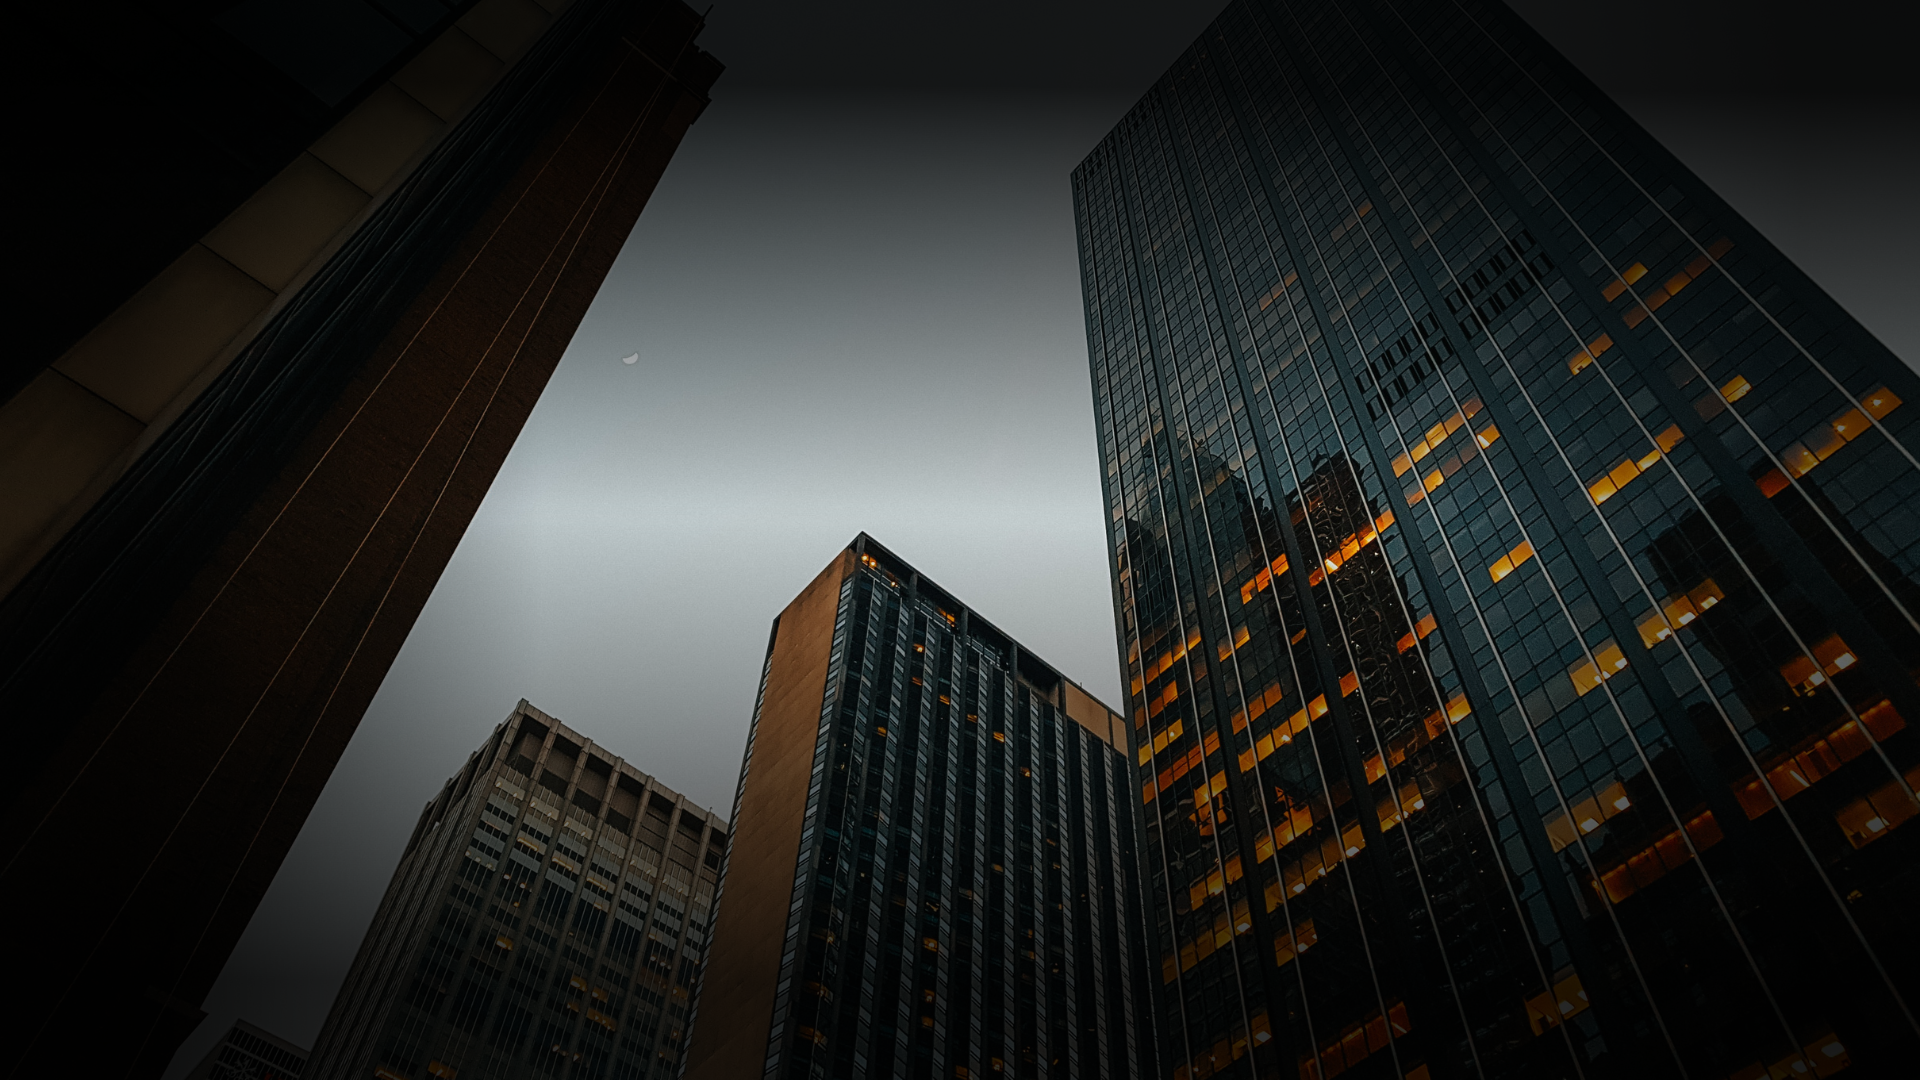
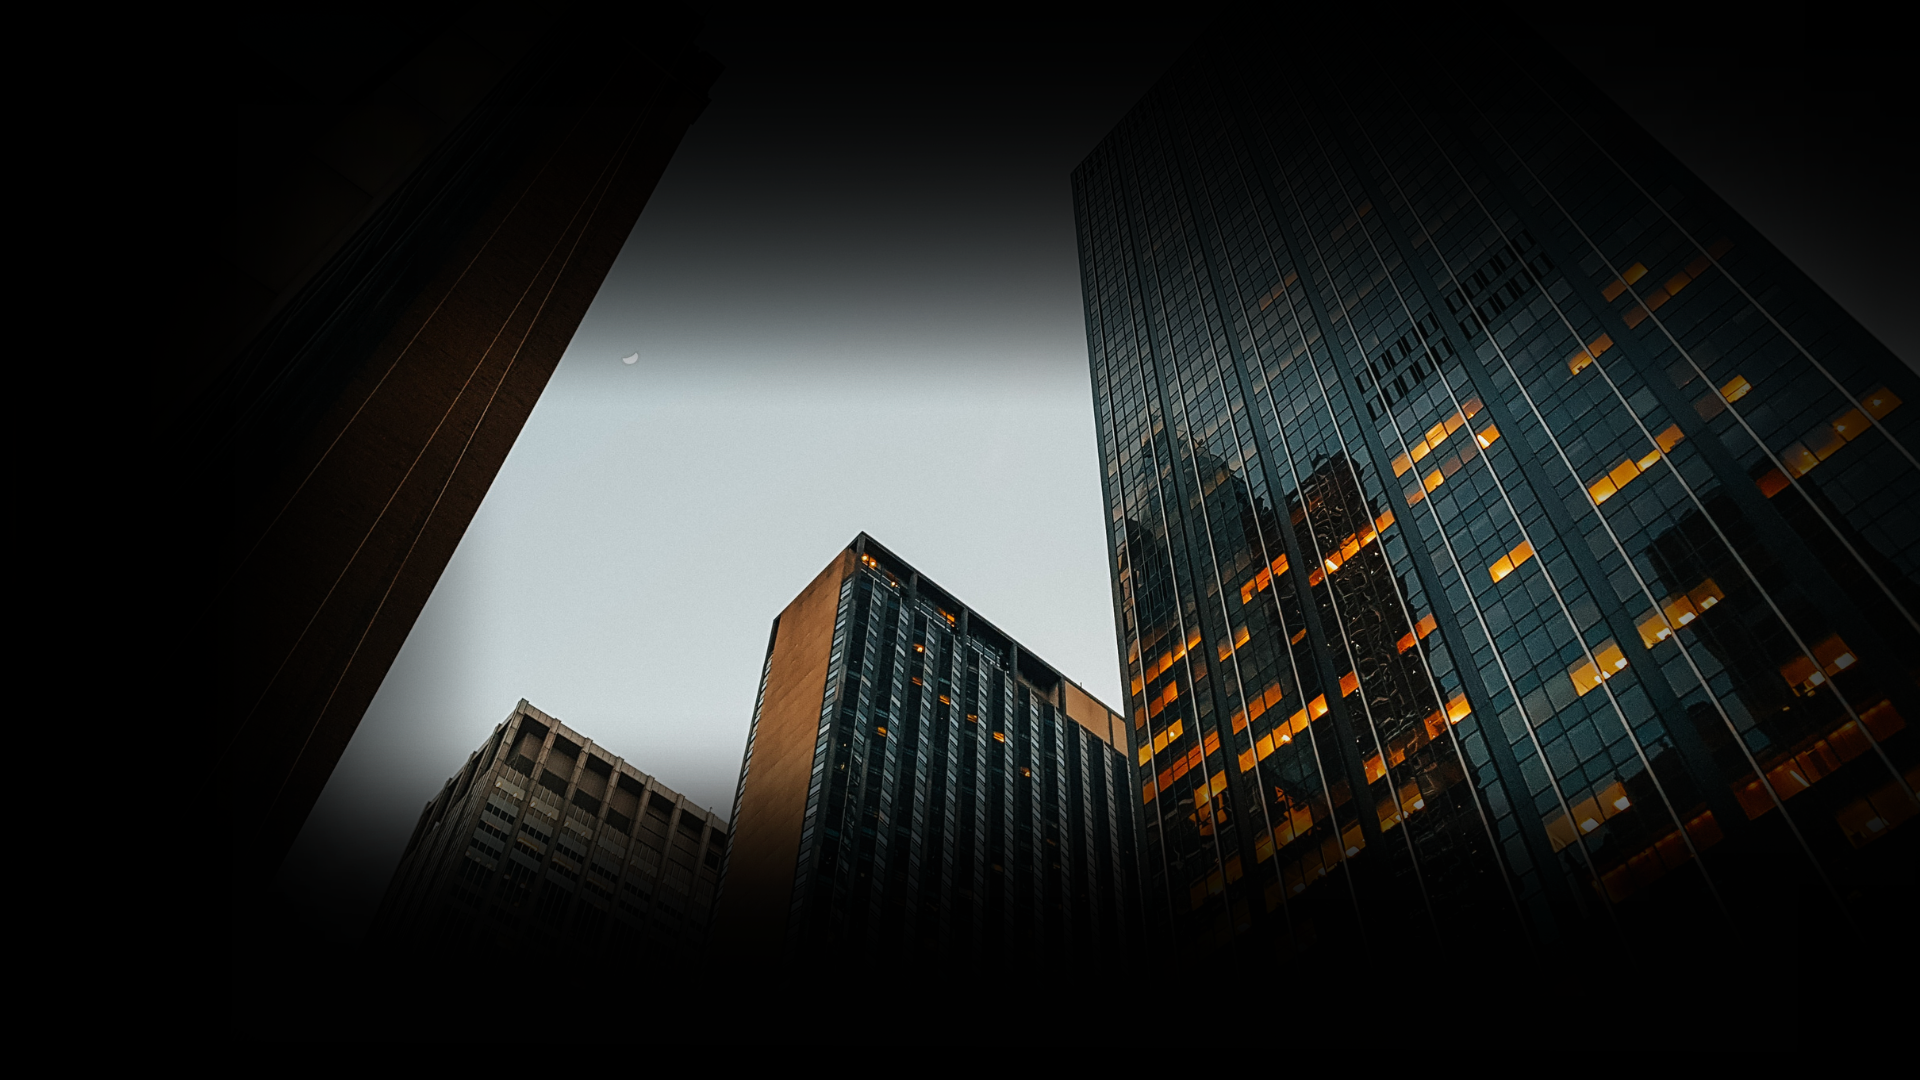
navbar

diff --git a/html/home.html b/html/home.html
@@ -8,31 +8,25 @@
     <link rel="stylesheet" href="https://cdn.jsdelivr.net/npm/bootstrap@4.3.1/dist/css/bootstrap.min.css" integrity="sha384-ggOyR0iXCbMQv3Xipma34MD+dH/1fQ784/j6cY/iJTQUOhcWr7x9JvoRxT2MZw1T" crossorigin="anonymous">
     <link rel="stylesheet" href="./css/home.css">
     <link rel="icon" href="https://cdn-icons-png.flaticon.com/512/187/187280.png">
-    <div class="nav-bar">
-      <img class = "logo" src="logo.png" alt = "Stem Logo"> 
-      <img class = "logo-name" src="logo_name.png" alt = "Stem Logo Name"> 
-      <div class="col-auto"><a class = "nav-header" href="home.html">Home</a></div>
-      <div class="col-auto"><a class = "nav-header" href = "rafdsfs.html">Stem Articles</a></div>
-      <div class="col-auto"><a class = "nav-header" href = "rafdsfs.html">Stem Leaders</a></div>
-      <div class="col-auto"><a class = "nav-header" href = "rafdsfs.html">Resources</a></div>
-      <div class="col-auto"><a class = "nav-header" href = "rafdsfs.html">Career Pathways</a></div>
-    </div>
 </head>
 <body>
-        <div class="row m-0" >
-          <div class="col-7 text"id="quote">
-            “It gave a tremendous level of self-confidence, that through exploration and learning one could understand seemingly very complex things in one’s environment.” 
-            <span id="person"><br>– Steve Jobs</span>
-          </div>
-          <div class="col-5 text"id = "thing">
-            One of three columns
-          </div>
-
-          <div class = "col-12 header" id = "quote">
-            <h1 class = "Title"> Discover </h1>
-            <h2 class = "Title"> Your <span class = "Title2"> Lifestyle. </span></h1>
-              <p class = "Intro">In the field of STEM, there are many opportunities. Begin the search for your future <span class = "Intro2"> here. </span></p>
-        </div>
-      </div>
+  <div class="nav-bar">
+    <img class = "logo" src="logo.png" alt = "Stem Logo"> 
+    <img class = "logo-name" src="logo_name.png" alt = "Stem Logo Name"> 
+    <div class="col-3"></div>
+    <div class="col-auto"><a class = "nav-header" href="home.html">Home</a></div>
+    <div class="col-auto"><a class = "nav-header" href = "rafdsfs.html">Stem Articles</a></div>
+    <div class="col-auto"><a class = "nav-header" href = "rafdsfs.html">Stem Leaders</a></div>
+    <div class="col-auto"><a class = "nav-header" href = "rafdsfs.html">Resources</a></div>
+    <div class="col-auto"><a class = "nav-header" href = "rafdsfs.html">Career Pathways</a></div>
+  </div>
+  <div class="row m-0" >
+    <div class = "col-1" id = "quote"></div>
+    <div class = "col-11 header" id = "quote">
+      <h1 class = "Title"> Discover </h1>
+      <h2 class = "Title"> Your <span class = "Title2"> Lifestyle. </span></h1>
+      <p class = "Intro">In the field of STEM, there are many opportunities. Begin the search for your future <span class = "Intro2"> here. </span></p>
+    </div>
+  </div>
 </body>
 </html>

diff --git a/html/css/home.css b/html/css/home.css
@@ -11,10 +11,10 @@ src: url('fonts/Overpass/static/Overpass-Medium.ttf');
     src: url('fonts/Overpass/static/Overpass-LightItalic.ttf');
 }
 html {
-    height: 150%;
+    height: 300%;
     scroll-behavior: smooth;
 }
-html,#thing,#quote {
+html,#thing,#quote,.nav-bar{
     background: url(building.png) no-repeat center center fixed; 
   -webkit-background-size: cover;
   -moz-background-size: cover;
@@ -23,14 +23,11 @@ html,#thing,#quote {
   padding-left: 0%;
   padding-right: 0%;
 }
-#person {
-    color: blueviolet;
-}
-
 .nav-bar{
-    background-color:black;
+    margin-top:2%;
     display:flex;
-    position: sticky;
+    z-index: 2;
+    width:100%;
     }
 a:link[class = "nav-header"], a:visited[class = "nav-header"] {
     color: white;
